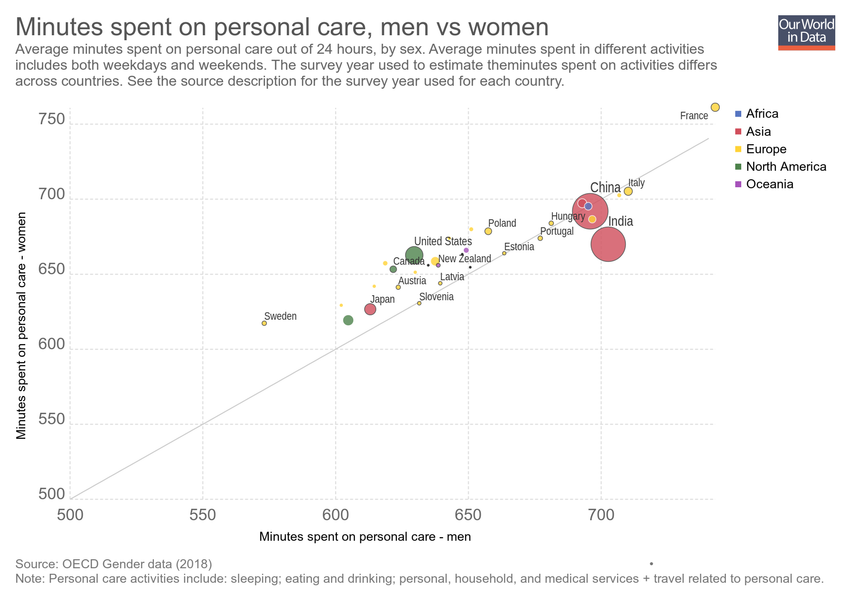
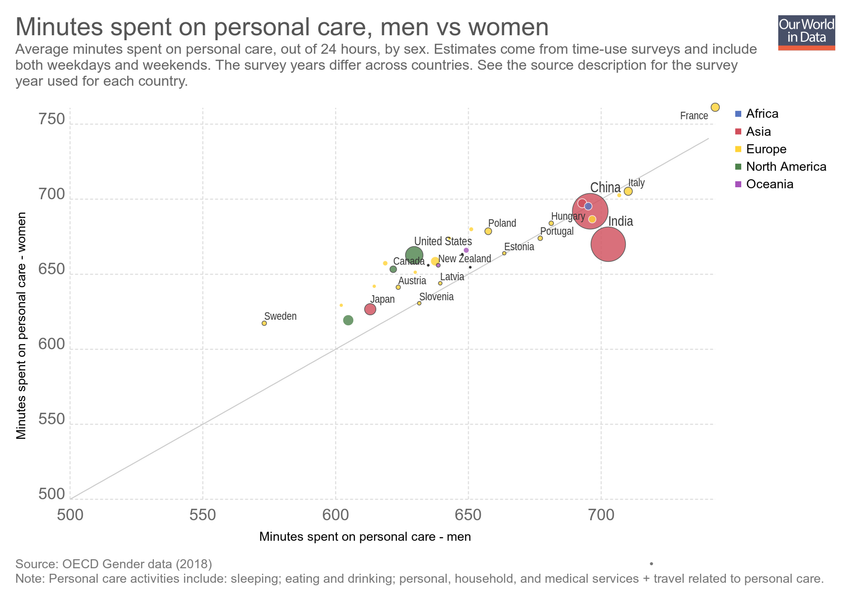
Updating chart minutes-spent-on-personal-care

Changed region(s): [[0.0, 0.06, 0.8871, 0.15]]

diff --git a/grapher/minutes-spent-on-personal-care.html b/grapher/minutes-spent-on-personal-care.html
@@ -1,4 +1,4 @@
-<!doctype html><html><head><meta name="viewport" content="width=device-width, initial-scale=1" /><title>Minutes spent on personal care, men vs women - Our World in Data</title><meta name="description" content="Average minutes spent on personal care out of 24 hours, by sex.  Average minutes spent in different activities includes both weekdays and weekends. The survey year used to estimate theminutes spent on activities differs across countries. See the source description for the survey year used for each country." /><link rel="canonical" href="https://ourworldindata.org/grapher/minutes-spent-on-personal-care" /><meta property="fb:app_id" content="1149943818390250" /><meta property="og:url" content="https://ourworldindata.org/grapher/minutes-spent-on-personal-care" /><meta property="og:title" content="Minutes spent on personal care, men vs women" /><meta property="og:description" content="Average minutes spent on personal care out of 24 hours, by sex.  Average minutes spent in different activities includes both weekdays and weekends. The survey year used to estimate theminutes spent on activities differs across countries. See the source description for the survey year used for each country." /><meta property="og:image" content="https://ourworldindata.org/grapher/exports/minutes-spent-on-personal-care.png?v=6" /><meta property="og:image:width" content="850" /><meta property="og:image:height" content="600" /><meta property="og:site_name" content="Our World in Data" /><meta name="twitter:card" content="summary_large_image" /><meta name="twitter:site" content="@OurWorldInData" /><meta name="twitter:creator" content="@OurWorldInData" /><meta name="twitter:title" content="Minutes spent on personal care, men vs women" /><meta name="twitter:description" content="Average minutes spent on personal care out of 24 hours, by sex.  Average minutes spent in different activities includes both weekdays and weekends. The survey year used to estimate theminutes spent on activities differs across countries. See the source description for the survey year used for each country." /><meta name="twitter:image" content="https://ourworldindata.org/grapher/exports/minutes-spent-on-personal-care.png?v=6" /><style>
+<!doctype html><html><head><meta name="viewport" content="width=device-width, initial-scale=1" /><title>Minutes spent on personal care, men vs women - Our World in Data</title><meta name="description" content="Average minutes spent on personal care, out of 24 hours, by sex. Estimates come from time-use surveys and include both weekdays and weekends. The survey years differ across countries. See the source description for the survey year used for each country." /><link rel="canonical" href="https://ourworldindata.org/grapher/minutes-spent-on-personal-care" /><meta property="fb:app_id" content="1149943818390250" /><meta property="og:url" content="https://ourworldindata.org/grapher/minutes-spent-on-personal-care" /><meta property="og:title" content="Minutes spent on personal care, men vs women" /><meta property="og:description" content="Average minutes spent on personal care, out of 24 hours, by sex. Estimates come from time-use surveys and include both weekdays and weekends. The survey years differ across countries. See the source description for the survey year used for each country." /><meta property="og:image" content="https://ourworldindata.org/grapher/exports/minutes-spent-on-personal-care.png?v=7" /><meta property="og:image:width" content="850" /><meta property="og:image:height" content="600" /><meta property="og:site_name" content="Our World in Data" /><meta name="twitter:card" content="summary_large_image" /><meta name="twitter:site" content="@OurWorldInData" /><meta name="twitter:creator" content="@OurWorldInData" /><meta name="twitter:title" content="Minutes spent on personal care, men vs women" /><meta name="twitter:description" content="Average minutes spent on personal care, out of 24 hours, by sex. Estimates come from time-use surveys and include both weekdays and weekends. The survey years differ across countries. See the source description for the survey year used for each country." /><meta name="twitter:image" content="https://ourworldindata.org/grapher/exports/minutes-spent-on-personal-care.png?v=7" /><style>
         html, body {
             height: 100%;
             margin: 0;
@@ -20,8 +20,8 @@
         }
     </style><noscript><style>
                     figure { display: none !important; }
-                </style></noscript><link rel="stylesheet" href="https://ourworldindata.org/grapher/assets/commons.bundle.dcbbe53805c487d5e57617b10ac73a8a.css" /><link rel="preload" href="/grapher/data/variables/96619+96614+72+123.json?v=6" as="fetch" crossorigin /></head><body class="singleChart"><figure data-grapher-src="/grapher/minutes-spent-on-personal-care"></figure><noscript id="fallback"><img src="/grapher/exports/minutes-spent-on-personal-care.svg" /><p>Interactive visualization requires JavaScript</p></noscript><script src="https://cdn.polyfill.io/v2/polyfill.min.js?features=es6,fetch"></script><script src="https://ourworldindata.org/grapher/assets/commons.bundle.43d139222ef978d52c09.js"></script><script src="https://ourworldindata.org/grapher/assets/charts.bundle.43d139222ef978d52c09.js"></script><script>
-        var jsonConfig = {"id":2540,"map":{"projection":"World","colorSchemeLabels":[],"colorSchemeValues":[],"colorSchemeMinValue":0,"customNumericColors":[],"customCategoryColors":{},"customCategoryLabels":{},"customHiddenCategories":{}},"tab":"chart","note":"Personal care activities include: sleeping; eating and drinking; personal, household, and medical services + travel related to personal care.","slug":"minutes-spent-on-personal-care","type":"ScatterPlot","title":"Minutes spent on personal care, men vs women","xAxis":{"min":500,"scaleType":"linear"},"yAxis":{"min":500,"scaleType":"linear"},"version":6,"subtitle":"Average minutes spent on personal care out of 24 hours, by sex.  Average minutes spent in different activities includes both weekdays and weekends. The survey year used to estimate theminutes spent on activities differs across countries. See the source description for the survey year used for each country.","hasMapTab":false,"stackMode":"absolute","dimensions":[{"display":{"name":"Minutes spent on personal care - women"},"property":"y","variableId":96619},{"display":{"name":"Minutes spent on personal care - men"},"property":"x","variableId":96614},{"display":{},"property":"size","variableId":72},{"display":{},"property":"color","variableId":123}],"hasChartTab":true,"isPublished":true,"selectedData":[],"comparisonLine":{},"hideTitleAnnotation":true};
+                </style></noscript><link rel="stylesheet" href="https://ourworldindata.org/grapher/assets/commons.bundle.dcbbe53805c487d5e57617b10ac73a8a.css" /><link rel="preload" href="/grapher/data/variables/96619+96614+72+123.json?v=7" as="fetch" crossorigin /></head><body class="singleChart"><figure data-grapher-src="/grapher/minutes-spent-on-personal-care"></figure><noscript id="fallback"><img src="/grapher/exports/minutes-spent-on-personal-care.svg" /><p>Interactive visualization requires JavaScript</p></noscript><script src="https://cdn.polyfill.io/v2/polyfill.min.js?features=es6,fetch"></script><script src="https://ourworldindata.org/grapher/assets/commons.bundle.43d139222ef978d52c09.js"></script><script src="https://ourworldindata.org/grapher/assets/charts.bundle.43d139222ef978d52c09.js"></script><script>
+        var jsonConfig = {"id":2540,"map":{"projection":"World","colorSchemeLabels":[],"colorSchemeValues":[],"colorSchemeMinValue":0,"customNumericColors":[],"customCategoryColors":{},"customCategoryLabels":{},"customHiddenCategories":{}},"tab":"chart","note":"Personal care activities include: sleeping; eating and drinking; personal, household, and medical services + travel related to personal care.","slug":"minutes-spent-on-personal-care","type":"ScatterPlot","title":"Minutes spent on personal care, men vs women","xAxis":{"min":500,"scaleType":"linear"},"yAxis":{"min":500,"scaleType":"linear"},"version":7,"subtitle":"Average minutes spent on personal care, out of 24 hours, by sex. Estimates come from time-use surveys and include both weekdays and weekends. The survey years differ across countries. See the source description for the survey year used for each country.","hasMapTab":false,"stackMode":"absolute","dimensions":[{"display":{"name":"Minutes spent on personal care - women"},"property":"y","variableId":96619},{"display":{"name":"Minutes spent on personal care - men"},"property":"x","variableId":96614},{"display":{},"property":"size","variableId":72},{"display":{},"property":"color","variableId":123}],"hasChartTab":true,"isPublished":true,"selectedData":[],"comparisonLine":{},"hideTitleAnnotation":true};
         var figure = document.getElementsByTagName("figure")[0];
         try {
             window.App = {};
